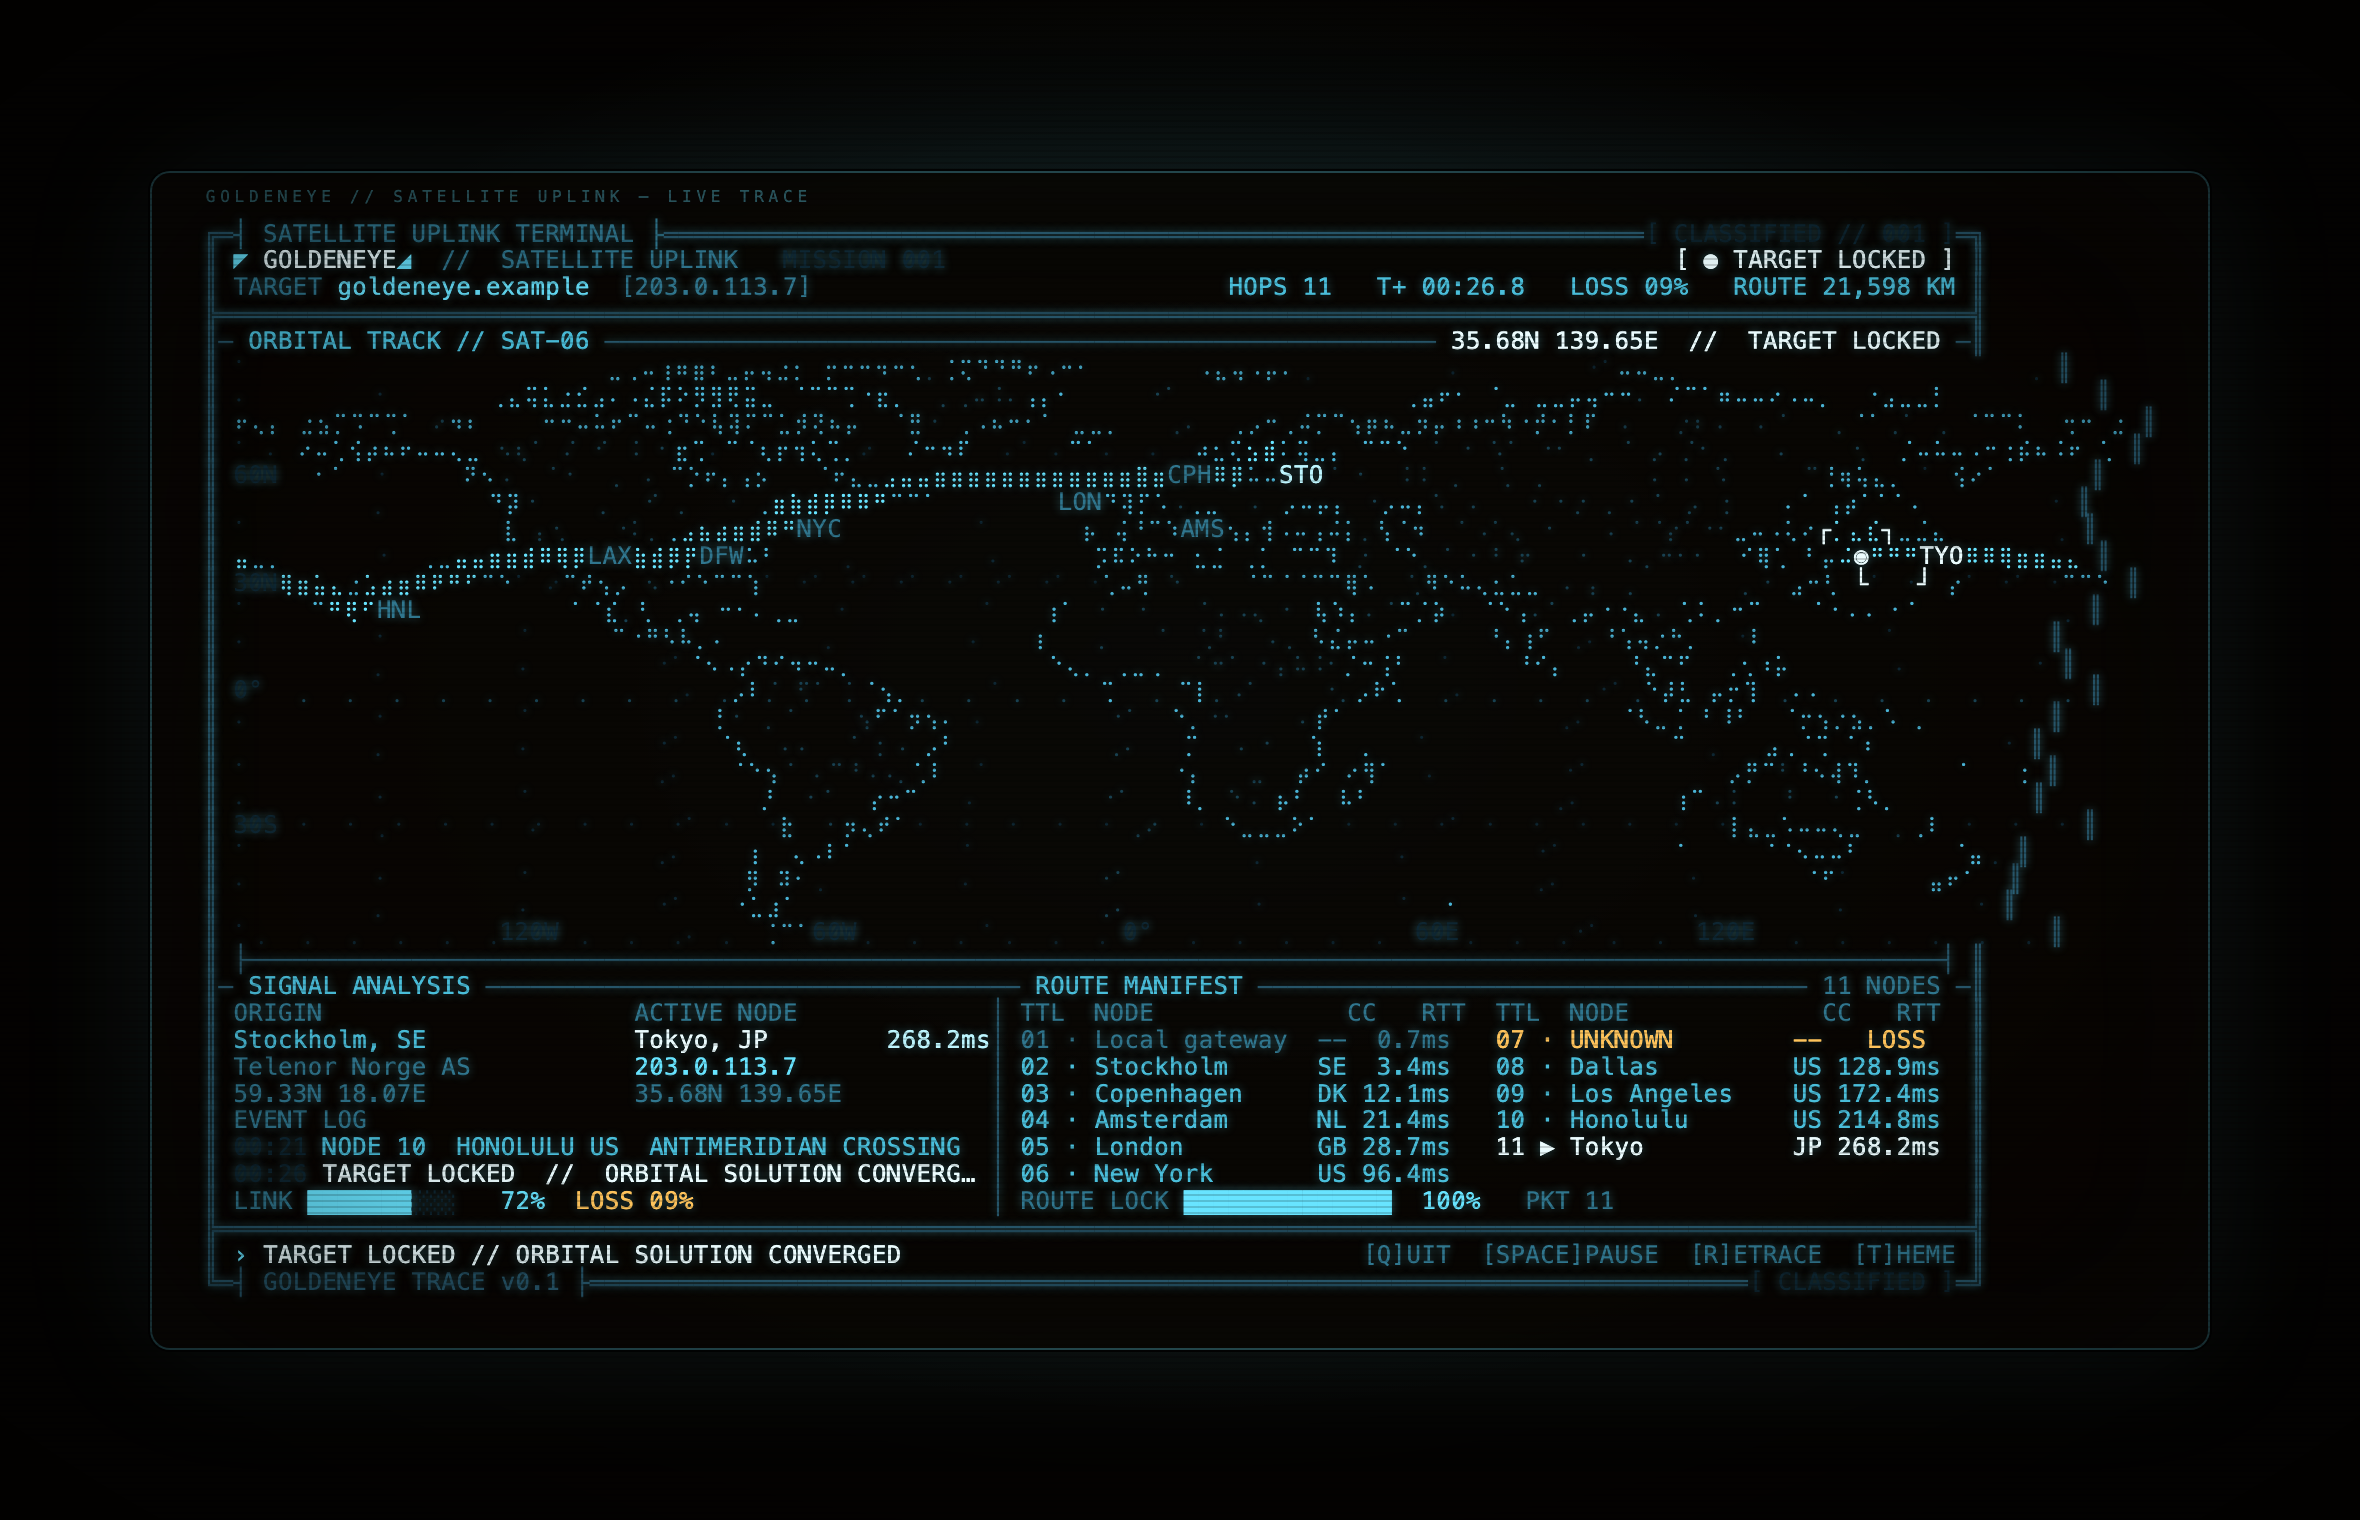
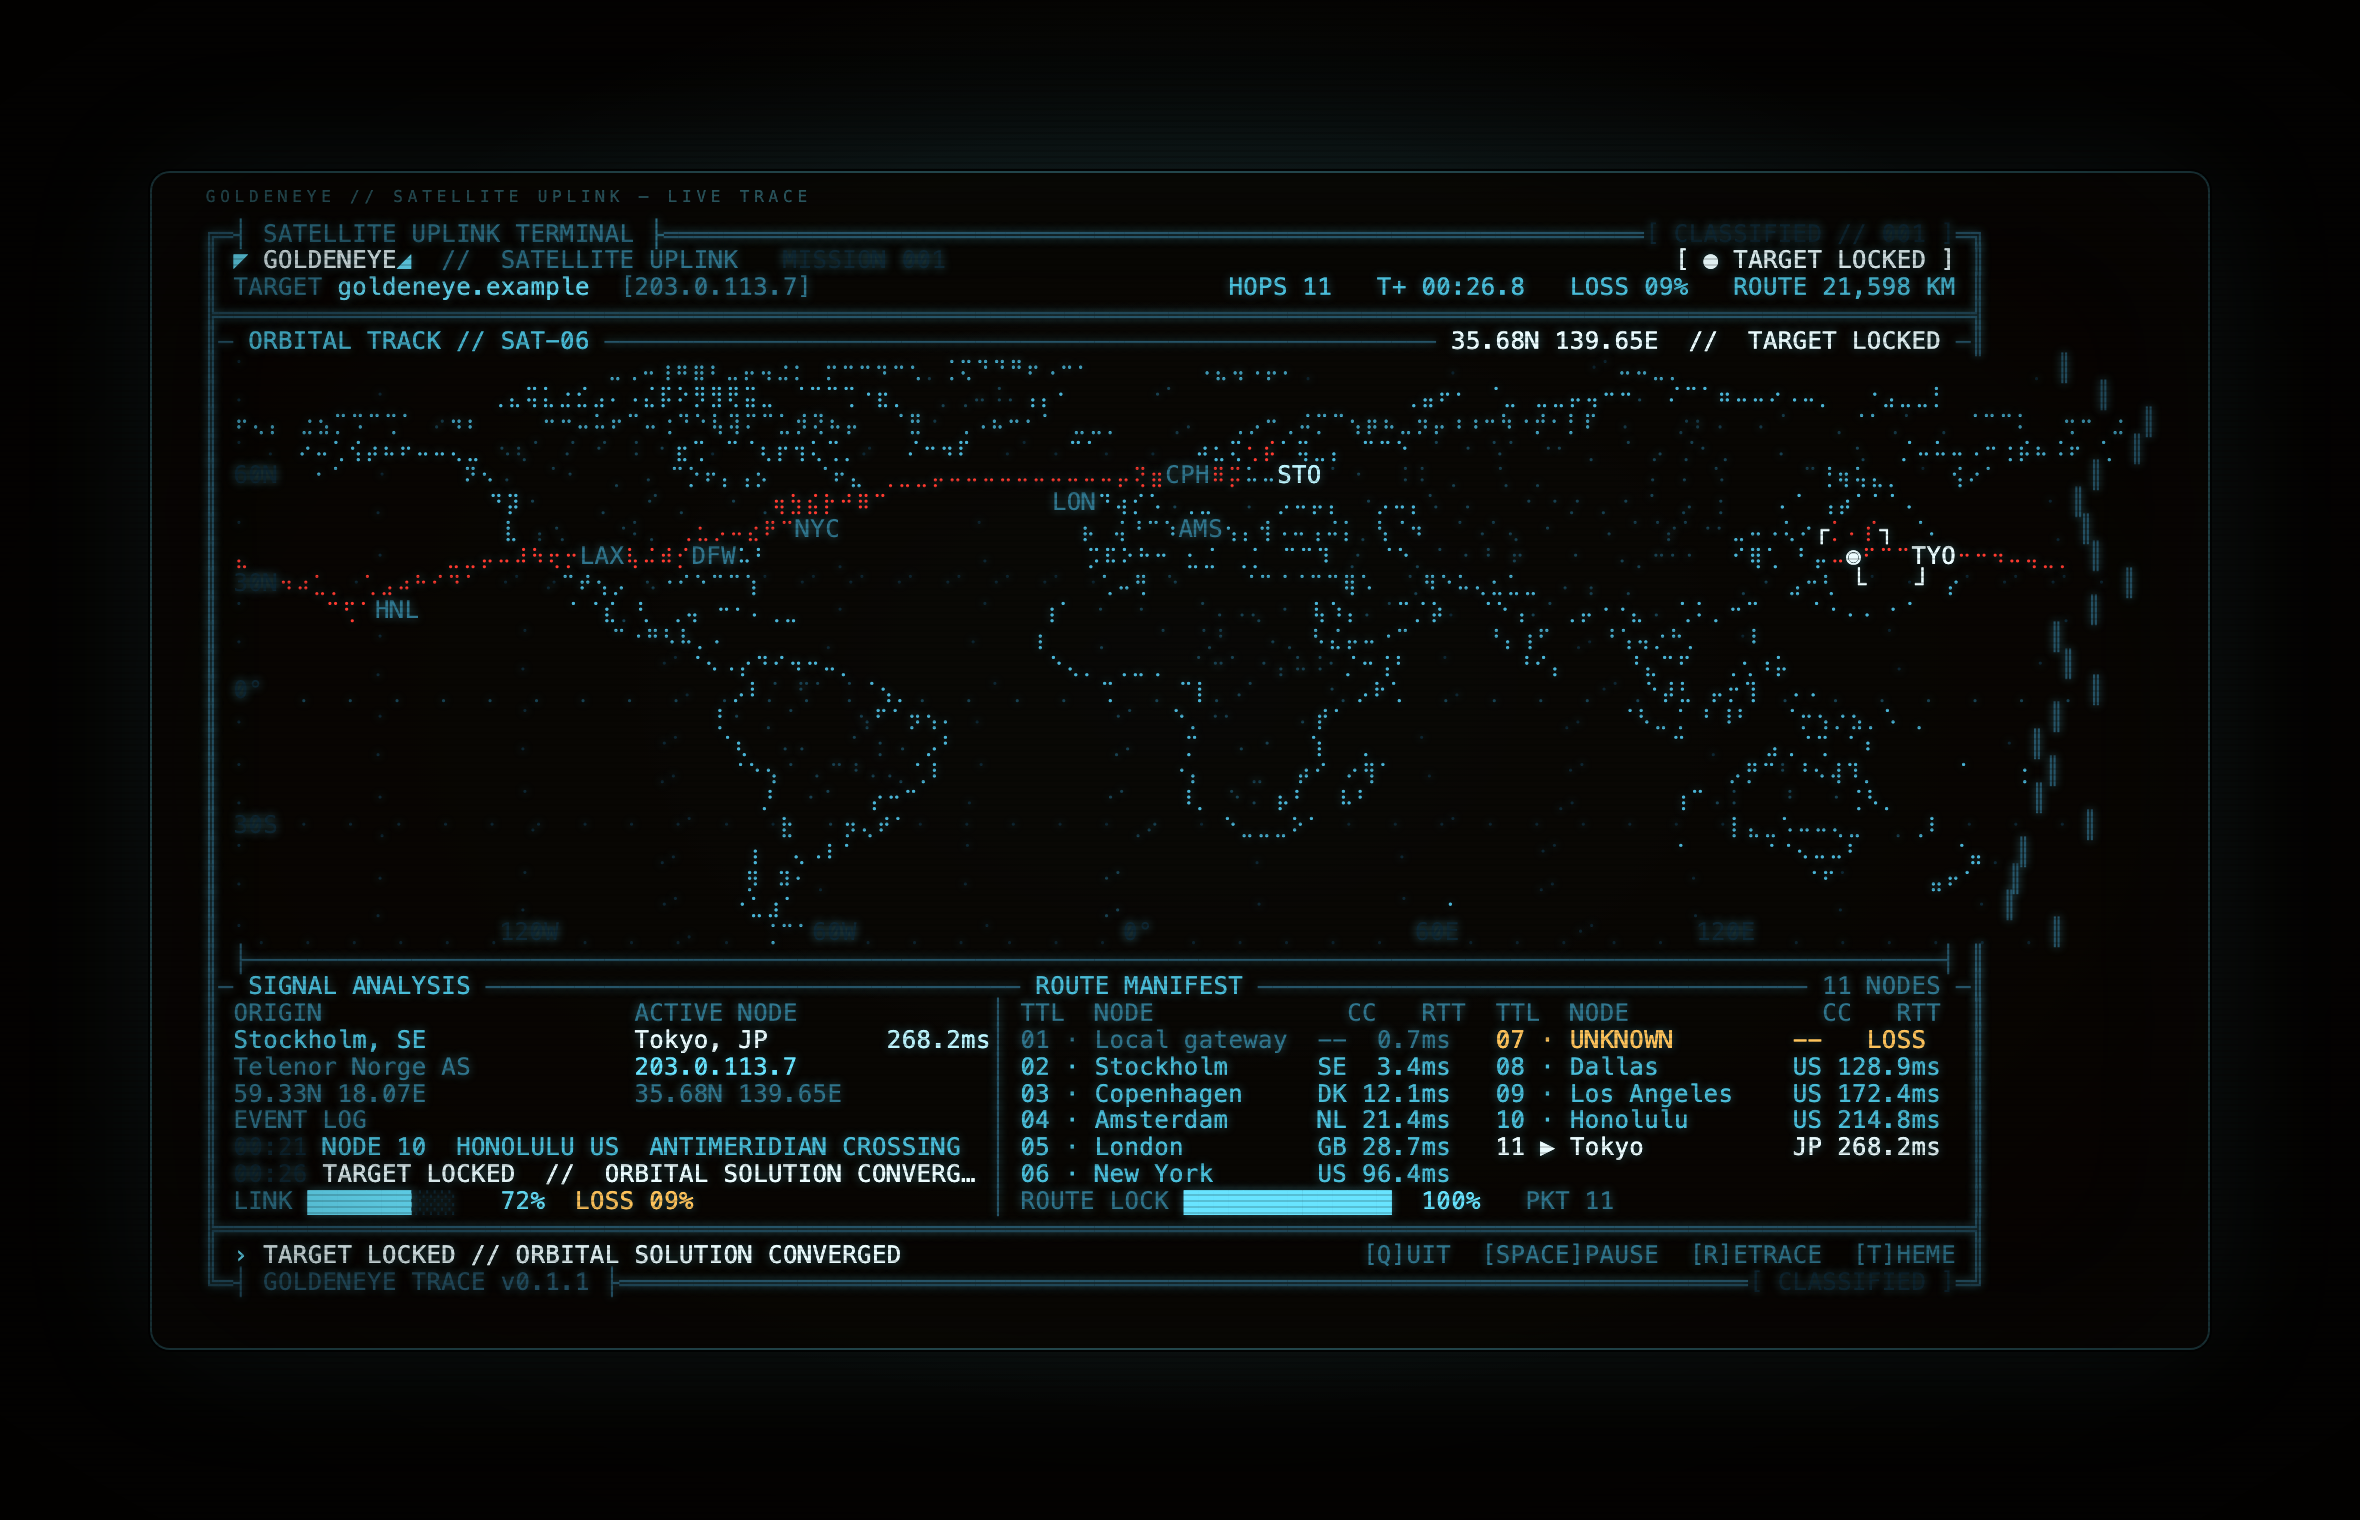
Make the trace line a thin red beam
Drop the wide amber glow and render a single-dot red route across all themes. Bumps the CLI to v0.1.1.

diff --git a/src/render/frame.ts b/src/render/frame.ts
@@ -8,6 +8,7 @@ import {
 import { getLandMask, LAND_HEIGHT, LAND_WIDTH } from "../land.ts";
 import { createProjection, type GeoBounds, type GeoProjection } from "../map.ts";
 import { themeByName, type StyleRole } from "../theme.ts";
+import { VERSION } from "../version.ts";
 import {
   cityCode,
   routeStations,
@@ -212,14 +213,7 @@ function drawSegment(
     if (previousPoint) {
       canvas.line(previousPoint.x * 2, previousPoint.y * 4, point.x * 2, point.y * 4, 3);
     }
-
-    const dotX = Math.round(point.x * 2);
-    const dotY = Math.round(point.y * 4);
-    canvas.plot(dotX - 1, dotY, 2);
-    canvas.plot(dotX + 1, dotY, 2);
-    canvas.plot(dotX, dotY - 1, 2);
-    canvas.plot(dotX, dotY + 1, 2);
-    canvas.plot(dotX, dotY, 3);
+    canvas.plot(Math.round(point.x * 2), Math.round(point.y * 4), 3);
 
     previousSample = sample;
     previousPoint = point;
@@ -754,7 +748,7 @@ function drawFooter(screen: Screen, state: MissionState, now: number): void {
   if (Math.floor(now / 450) % 2 === 0) screen.put(cursorX + 1, y + 1, "▌", "bright");
   screen.putRight(width - 3, y + 1, hints, "dim");
 
-  screen.put(2, screen.height - 1, "┤ GOLDENEYE TRACE v0.1 ├", "frame");
+  screen.put(2, screen.height - 1, `┤ GOLDENEYE TRACE v${VERSION} ├`, "frame");
   screen.putRight(width - 3, screen.height - 1, "[ CLASSIFIED ]", "grid");
 }
 

diff --git a/src/render/boot.ts b/src/render/boot.ts
@@ -1,4 +1,5 @@
 import { themeByName } from "../theme.ts";
+import { VERSION } from "../version.ts";
 import type { ThemeName } from "../types.ts";
 import { Screen, truncate } from "./screen.ts";
 
@@ -111,7 +112,7 @@ export function renderBoot(options: BootOptions): string[] {
   screen.put(2, height - 3, "AUTH  ████████████████  //  CLEARANCE ACCEPTED", "grid");
   screen.putRight(width - 3, height - 3, "[ PRESS ANY KEY TO SKIP ]", "dim");
   screen.hline(1, height - 2, width - 2, "─", "frame");
-  screen.put(2, height - 1, "┤ GOLDENEYE TRACE v0.1 ├", "frame");
+  screen.put(2, height - 1, `┤ GOLDENEYE TRACE v${VERSION} ├`, "frame");
   screen.putRight(width - 3, height - 1, "[ CLASSIFIED ]", "grid");
 
   return screen.lines(color, theme);

diff --git a/src/theme.ts b/src/theme.ts
@@ -12,7 +12,8 @@ export type StyleRole =
   | "hot"
   | "warn"
   | "error"
-  | "ok";
+  | "ok"
+  | "route";
 
 export interface Theme {
   name: ThemeName;
@@ -35,6 +36,7 @@ export const THEMES: Record<ThemeName, Theme> = {
       warn: [255, 122, 28],
       error: [255, 77, 61],
       ok: [255, 214, 106],
+      route: [255, 59, 48],
     },
   },
   green: {
@@ -52,6 +54,7 @@ export const THEMES: Record<ThemeName, Theme> = {
       warn: [255, 194, 71],
       error: [255, 90, 90],
       ok: [126, 255, 178],
+      route: [255, 59, 48],
     },
   },
   ice: {
@@ -69,6 +72,7 @@ export const THEMES: Record<ThemeName, Theme> = {
       warn: [255, 196, 92],
       error: [255, 96, 96],
       ok: [140, 240, 255],
+      route: [255, 59, 48],
     },
   },
 };

diff --git a/test/cli.test.ts b/test/cli.test.ts
@@ -4,6 +4,7 @@ import { main, type CliDeps } from "../src/cli.ts";
 import type { GeoProvider, GeoResult } from "../src/geo-lookup.ts";
 import type { TraceRunner } from "../src/runner.ts";
 import type { HopLine } from "../src/traceroute.ts";
+import { VERSION } from "../src/version.ts";
 
 function capture() {
   const chunks: string[] = [];
@@ -165,7 +166,7 @@ test("prints demo state as JSON", async () => {
 
   assert.equal(code, 0);
   const parsed = JSON.parse(out.text()) as { version: string; state: { phase: string; demo: boolean } };
-  assert.equal(parsed.version, "0.1.0");
+  assert.equal(parsed.version, VERSION);
   assert.equal(parsed.state.demo, true);
   assert.equal(parsed.state.phase, "locked");
 });

diff --git a/test/theme.test.ts b/test/theme.test.ts
@@ -1,0 +1,12 @@
+import assert from "node:assert/strict";
+import { test } from "node:test";
+import { THEMES } from "../src/theme.ts";
+
+test("the route line is red in every theme", () => {
+  for (const theme of Object.values(THEMES)) {
+    const [red, green, blue] = theme.colors.route;
+    assert.ok(red >= 240, `${theme.name}: red channel is ${red}`);
+    assert.ok(green <= 90, `${theme.name}: green channel is ${green}`);
+    assert.ok(blue <= 90, `${theme.name}: blue channel is ${blue}`);
+  }
+});

diff --git a/src/cli.ts b/src/cli.ts
@@ -9,6 +9,7 @@ import { renderFrame } from "./render/frame.ts";
 import { createTraceRunner, type TraceRunner } from "./runner.ts";
 import { formatCoordinate } from "./geo.ts";
 import type { HopLine } from "./traceroute.ts";
+import { VERSION } from "./version.ts";
 import {
   routeStations,
   targetReached,
@@ -18,7 +19,6 @@ import {
   type ThemeName,
 } from "./types.ts";
 
-const VERSION = "0.1.0";
 const BOOT_MS = 2100;
 const FRAME_MS = 66;
 const THEMES: ThemeName[] = ["gold", "green", "ice"];

diff --git a/src/render/braille.ts b/src/render/braille.ts
@@ -15,7 +15,7 @@ const LEVEL_ROLES: Record<CanvasLevel, StyleRole> = {
   0: "grid",
   1: "land",
   2: "coast",
-  3: "bright",
+  3: "route",
 };
 
 /**

diff --git a/src/version.ts b/src/version.ts
@@ -1,0 +1,1 @@
+export const VERSION = "0.1.1";

diff --git a/README.md b/README.md
@@ -16,7 +16,7 @@
 ║ ORIGIN Stockholm, SE   →   ACTIVE Tokyo, JP   268.2ms   ROUTE LOCK 100%                ║
 ╠════════════════════════════════════════════════════════════════════════════════════════╣
 ║ › TARGET LOCKED // ORBITAL SOLUTION CONVERGED                                          ║
-╚═┤ GOLDENEYE TRACE v0.1 ├═══════════════════════════════════════════════════════════════╝
+╚═┤ GOLDENEYE TRACE v0.1.1 ├═════════════════════════════════════════════════════════╝
 ```
 
 ![GoldenEye Tracert running a locked demo mission](docs/preview.png)
